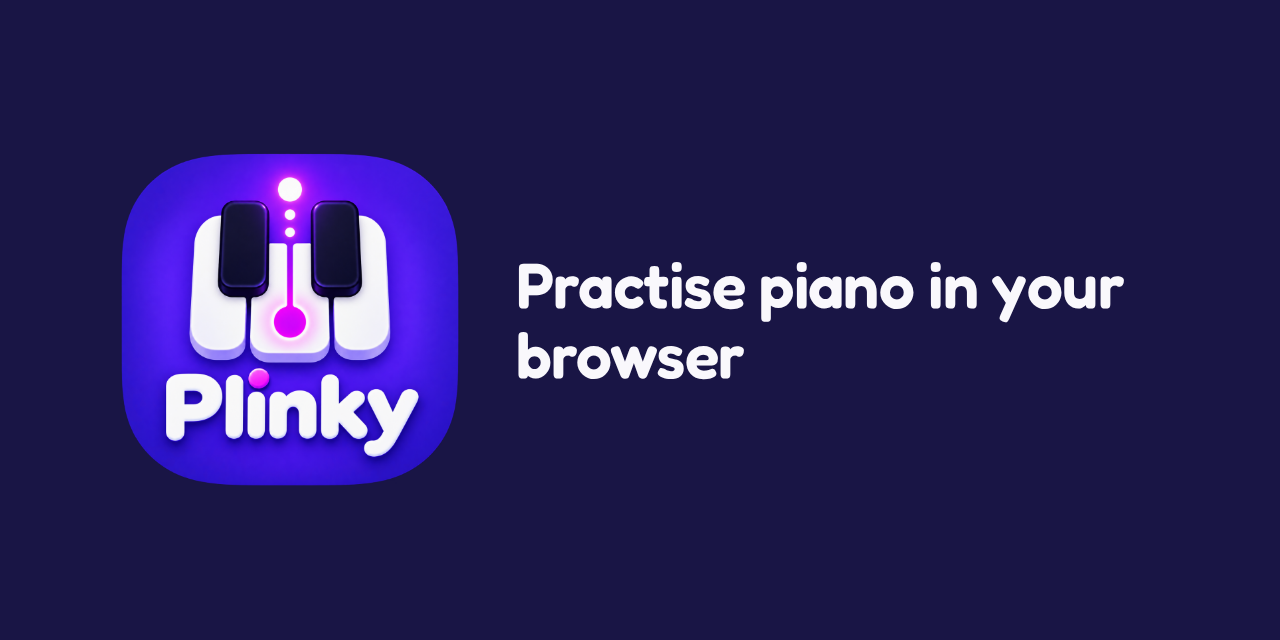
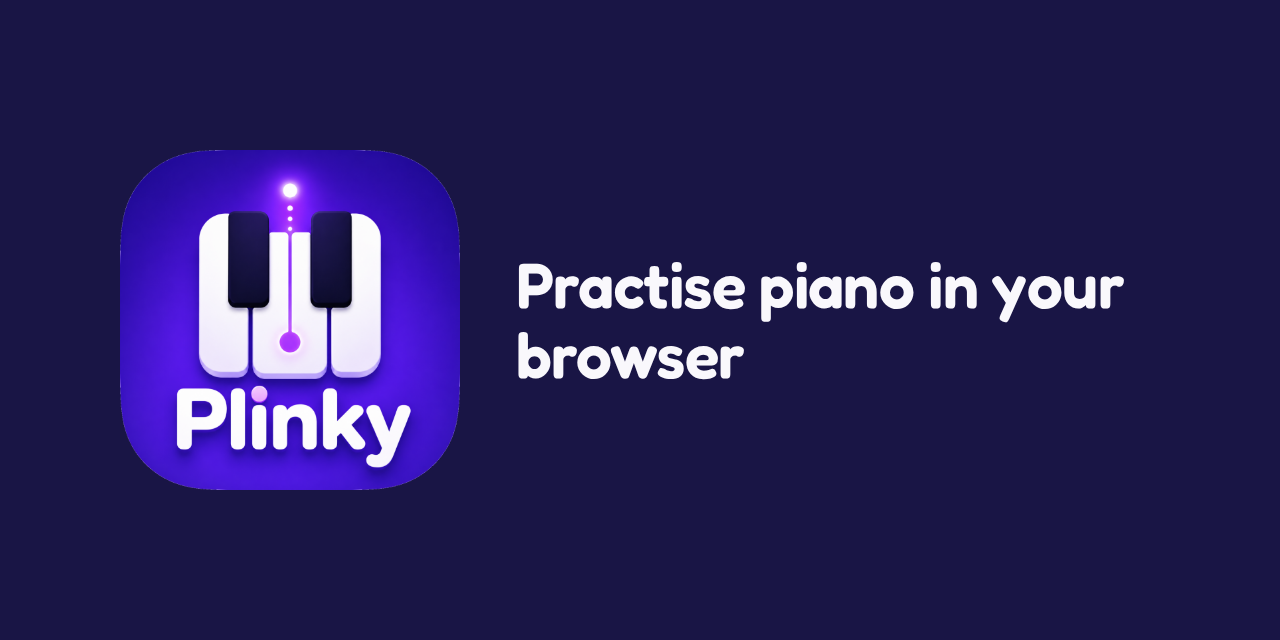
chore(brand): drop Marisol's tile, keep the social preview it prompted
The tile carried the name inside it, which ruled it out of every picture that is
cropped to a circle and left it serving one. It is out of the kit, along with the
master and the source it was keyed from.

The social preview stays, built from brand/plinky-mark.png like the rest of the
kit. It was worth having for its own sake — GitHub, Slack and a chat client all
unfurl something for a link to the code, and until now there was nothing for them
to unfurl — and the mark already carries the name, so nothing about it depended
on the tile.

The bleed on the profile pictures also stays. That fixed a defect the tile only
happened to expose: an ink ground behind a picture every platform crops to a
circle could only ever show as a dark ring, and no ground colour is right when the
artwork is drawn with a vignette. It is unrelated to which artwork sits on top.

Changed region(s): [[0.0938, 0.2188, 0.375, 0.7812]]

diff --git a/brand/README.md b/brand/README.md
@@ -15,7 +15,6 @@ first: `npm run build:single` (or `ci-build`), then `npm run brand`.
 | --- | --- |
 | `plinky-mark.png` | The lockup, and the master: 1024×1024 RGBA, transparent outside the tile's own rounded silhouette. Use it where the name has room to be read. |
 | `plinky-icon.png` | The same mark with the wordmark taken out and the keys recentred, 1024×1024 RGBA. Use it wherever the mark is worn small — a tab, a launcher, an app header — where the lockup's own lettering is a smudge. |
-| `plinky-tile.png` | A later lockup from the same hand, with the name set inside the tile rather than beside it, 1024×1024 RGBA. For the one picture shown large and uncropped — never for a profile picture, where a circle crop cuts the ends off a name drawn that wide and that low. |
 | `source/plinky-mark.png` | The artwork as its author supplied it, flattened onto white. `npm run mark` keys it and writes the master. |
 | `icon/plinky-*.png` | The mark at 32 · 64 · 180 · 192 · 512 · 1024, transparent outside its own silhouette. |
 | `icon/lockup-paper.png` | The mark beside the tagline on paper, 960×320 at 2×, for light surfaces. |
@@ -30,7 +29,7 @@ first: `npm run build:single` (or `ci-build`), then `npm run brand`.
 | `social/story-1080x1920.png` | A story or a reel. |
 | `social/facebook-cover-1640x624.png` | A Facebook page cover, at twice its shown size. |
 | `social/reddit-banner-*.png` | Reddit's community banner, desktop 1072×128 and mobile 1080×128. |
-| `social/github-social-1280x640.png` | A repository's social preview: what GitHub, Slack and a chat client unfurl for a link to the code. The one picture shown large enough for the name to sit inside it. |
+| `social/github-social-1280x640.png` | A repository's social preview: what GitHub, Slack and a chat client unfurl for a link to the code. Never cropped to a circle, so the mark keeps its tile and the tagline sits beside it. |
 | `social/youtube-banner-2048x1152.png` | The channel banner. Everything that must survive is inside the 1235×338 centre every device shows. |
 | `social/youtube-watermark-150.png` | The watermark YouTube overlays on a playing video. Transparent, so it is the mark and nothing else. |
 
